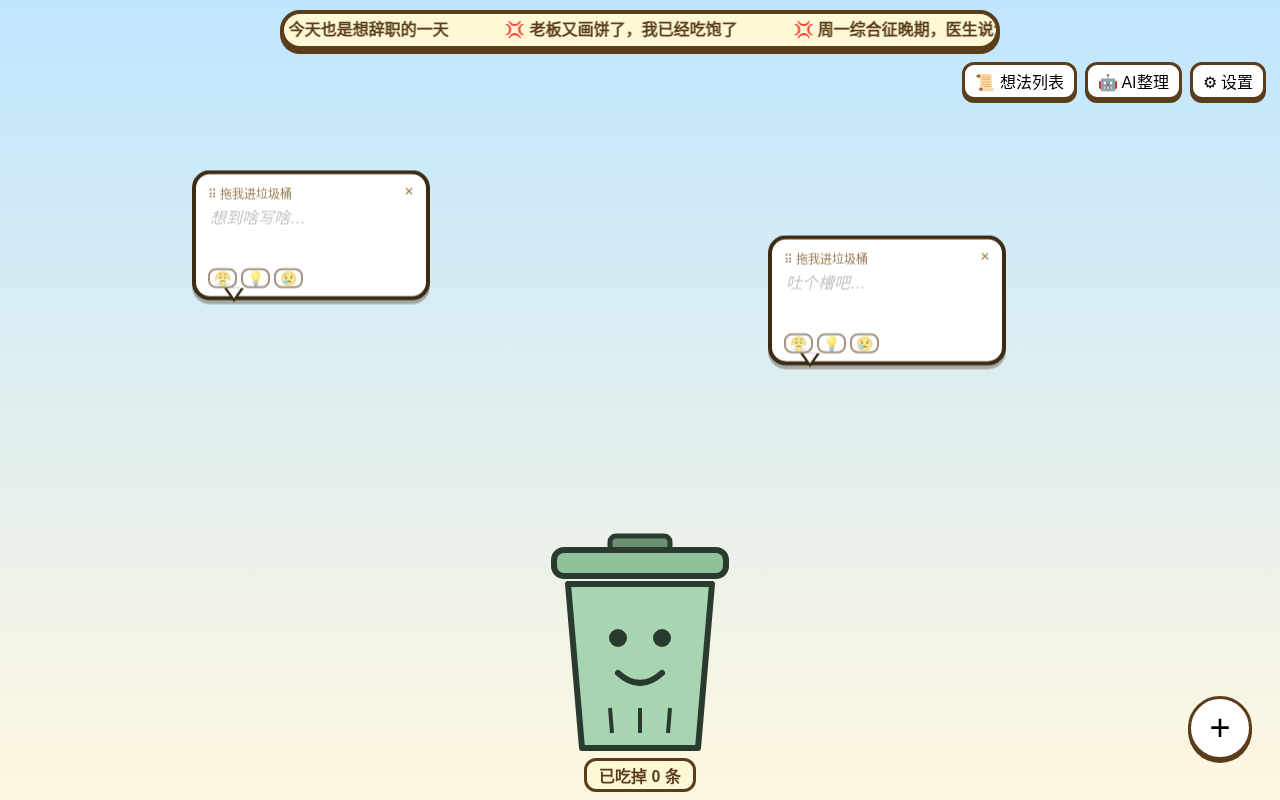
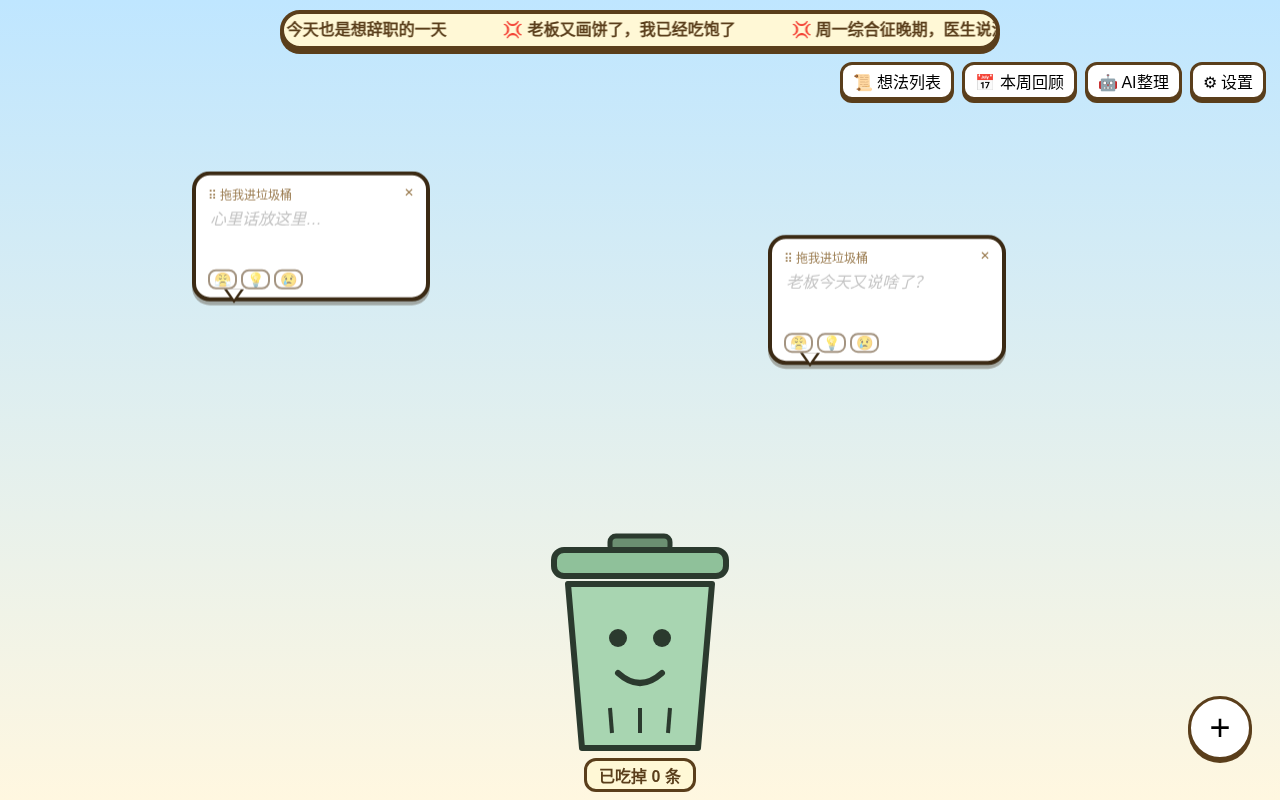
本周回顾卡片：标签统计、canvas 下载 PNG、周五自动弹出一次

diff --git a/js/review.js b/js/review.js
@@ -1,0 +1,57 @@
+// 本周回顾卡片：统计本周各标签数量，画在 canvas 上，可下载 PNG；每周五自动弹一次
+import { TAGS } from './tags.js';
+const SEEN = 'ttb.reviewSeenWeek';
+export function weekStart(d = new Date()) { const s = new Date(d); s.setHours(0, 0, 0, 0); s.setDate(s.getDate() - ((s.getDay() + 6) % 7)); return s; }
+const key = d => { const s = weekStart(d); return `${s.getFullYear()}-${s.getMonth() + 1}-${s.getDate()}`; };
+export function weekStats(notes, now = new Date()) {
+  const from = weekStart(now).getTime();
+  const wk = notes.filter(n => n.createdAt >= from);
+  const by = { rant: 0, idea: 0, heart: 0, none: 0 };
+  wk.forEach(n => by[TAGS[n.tag] ? n.tag : 'none']++);
+  return { total: wk.length, by, from: weekStart(now), to: now };
+}
+const COMMENTS = [[0, '这周很安静，是不是太忙了？'], [1, '这周丢了几条，状态还行～'], [10, '这周脑子很活跃嘛！'], [25, '这周槽点满满，辛苦了，抱抱！']];
+export function drawCard(canvas, st) {
+  const W = 600, H = 760; canvas.width = W; canvas.height = H;
+  const c = canvas.getContext('2d'), F = '"PingFang SC","Microsoft YaHei",sans-serif';
+  const g = c.createLinearGradient(0, 0, 0, H); g.addColorStop(0, '#bfe6ff'); g.addColorStop(1, '#fff7e0');
+  c.fillStyle = g; c.fillRect(0, 0, W, H);
+  const rr = (x, y, w, h, r, fill, stroke) => { c.beginPath(); c.roundRect(x, y, w, h, r); c.fillStyle = fill; c.fill(); if (stroke) { c.lineWidth = 5; c.strokeStyle = stroke; c.stroke(); } };
+  rr(30, 30, W - 60, H - 60, 28, '#fffdf3', '#3b2a14');
+  c.fillStyle = '#3b2a14'; c.textAlign = 'center';
+  c.font = `bold 40px ${F}`; c.fillText('🗑 本周思绪回顾', W / 2, 105);
+  const f = d => `${d.getMonth() + 1}月${d.getDate()}日`;
+  c.font = `20px ${F}`; c.fillStyle = '#9a7b4f'; c.fillText(`${f(st.from)} – ${f(st.to)}`, W / 2, 145);
+  c.fillStyle = '#c0392b'; c.font = `bold 110px ${F}`; c.fillText(String(st.total), W / 2, 275);
+  c.fillStyle = '#3b2a14'; c.font = `24px ${F}`; c.fillText('本周一共丢进垃圾桶的想法（条）', W / 2, 315);
+  const rows = [...Object.entries(TAGS).map(([k, t]) => [t.emoji + ' ' + t.name, st.by[k], t.color]), ['🏷 无标签', st.by.none, '#eeeeee']];
+  const max = Math.max(1, ...rows.map(r => r[1]));
+  rows.forEach(([label, n, col], i) => {
+    const y = 360 + i * 70;
+    c.textAlign = 'left'; c.font = `bold 24px ${F}`; c.fillStyle = '#3b2a14'; c.fillText(label, 70, y + 30);
+    rr(210, y + 6, 280, 32, 16, '#f1ead8');
+    if (n) rr(210, y + 6, Math.max(32, 280 * n / max), 32, 16, col, '#3b2a14');
+    c.textAlign = 'right'; c.fillStyle = '#3b2a14'; c.fillText(String(n), 535, y + 30);
+  });
+  const cm = COMMENTS.filter(([m]) => st.total >= m).pop()[1];
+  c.textAlign = 'center'; c.font = `bold 24px ${F}`; c.fillStyle = '#5a3e1b'; c.fillText(cm, W / 2, 665);
+  c.font = `16px ${F}`; c.fillStyle = '#9a7b4f'; c.fillText('—— 思绪垃圾桶', W / 2, 700);
+}
+export function showReview(notes, now = new Date()) {
+  document.getElementById('review')?.remove();
+  const st = weekStats(notes, now);
+  const ov = document.createElement('div'); ov.id = 'review';
+  ov.innerHTML = `<div class="review-box"><canvas></canvas><div class="row"><button id="review-dl">⬇ 下载 PNG</button><button id="review-close">关闭</button></div></div>`;
+  document.body.appendChild(ov);
+  const cv = ov.querySelector('canvas'); drawCard(cv, st);
+  ov.querySelector('#review-close').onclick = () => ov.remove();
+  ov.addEventListener('click', e => { if (e.target === ov) ov.remove(); });
+  ov.querySelector('#review-dl').onclick = () => { const a = document.createElement('a'); a.href = cv.toDataURL('image/png'); a.download = `本周回顾-${key(now)}.png`; a.click(); };
+  localStorage.setItem(SEEN, key(now));
+  return st;
+}
+// 周五自动弹出（每周一次）
+export function maybeAutoShow(notes, now = new Date()) {
+  if (now.getDay() === 5 && localStorage.getItem(SEEN) !== key(now)) { showReview(notes, now); return true; }
+  return false;
+}

diff --git a/js/main.js b/js/main.js
@@ -7,6 +7,7 @@ import * as ai from './ai.js';
 import { renderList, selected } from './list.js';
 import { explode } from './easter-eggs.js';
 import * as fill from './fill.js';
+import * as review from './review.js';
 
 const $ = s => document.querySelector(s);
 export function toast(msg, ms = 2200) { const t = $('#toast'); t.textContent = msg; t.classList.add('show'); clearTimeout(toast.t); toast.t = setTimeout(() => t.classList.remove('show'), ms); }
@@ -30,6 +31,7 @@ let current = null;
 function openPanel(kind) { current = kind; panel.classList.remove('hidden'); refreshPanel(); }
 $('#panel-close').onclick = () => { panel.classList.add('hidden'); current = null; };
 $('#btn-list').onclick = () => openPanel('list');
+$('#btn-review').onclick = async () => review.showReview(await store.listNotes());
 $('#btn-ai').onclick = () => openPanel('ai');
 $('#btn-settings').onclick = () => openPanel('settings');
 async function refreshPanel() {
@@ -80,6 +82,7 @@ function renderSettings() {
   await store.restoreFolder();
   trash.setCount(await store.countNotes());
   fill.renderPile(await store.countUnsorted());
+  review.maybeAutoShow(await store.listNotes());
   createBubble(innerWidth * 0.15, innerHeight * 0.22);
   createBubble(innerWidth * 0.6, innerHeight * 0.3);
 })();

diff --git a/css/style.css b/css/style.css
@@ -61,3 +61,7 @@ pre.result{white-space:pre-wrap;background:#fff;border:2px solid #ddd;padding:8p
 #trash.full #trash-mouth{d:path("M80 150 Q100 140 120 150")}
 .burp-bubble{position:absolute;top:-10px;left:62%;background:#fff;border:3px solid #3b2a14;border-radius:50%;padding:6px 12px;font-weight:bold;animation:burpup 1.6s ease-out forwards}
 @keyframes burpup{from{transform:translateY(20px) scale(.3);opacity:0}30%{opacity:1;transform:translateY(0) scale(1.1)}to{transform:translateY(-60px) scale(1);opacity:0}}
+
+#review{position:fixed;inset:0;background:rgba(0,0,0,.45);z-index:70;display:flex;align-items:center;justify-content:center}
+.review-box{display:flex;flex-direction:column;align-items:center;gap:8px}
+.review-box canvas{width:min(360px,80vw);height:auto;border-radius:18px;box-shadow:0 8px 24px rgba(0,0,0,.3)}

diff --git a/index.html b/index.html
@@ -10,6 +10,7 @@
 <header id="banner" aria-label="吐槽横幅"><div id="banner-track"></div></header>
 <nav id="toolbar">
   <button id="btn-list">📜 想法列表</button>
+  <button id="btn-review" title="本周回顾卡片（每周五自动弹出）">📅 本周回顾</button>
   <button id="btn-ai">🤖 AI整理</button>
   <button id="btn-settings">⚙ 设置</button>
 </nav>
